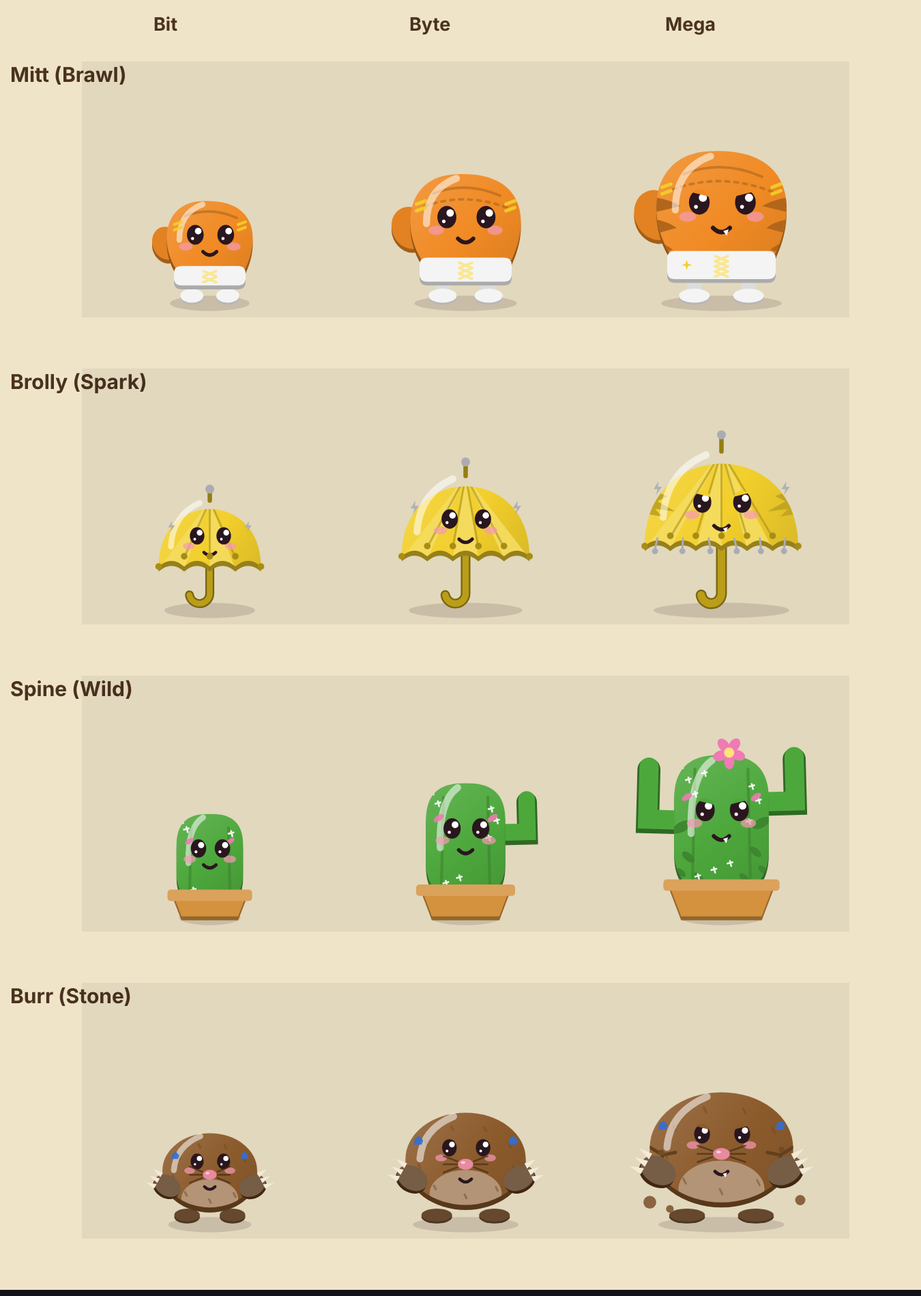
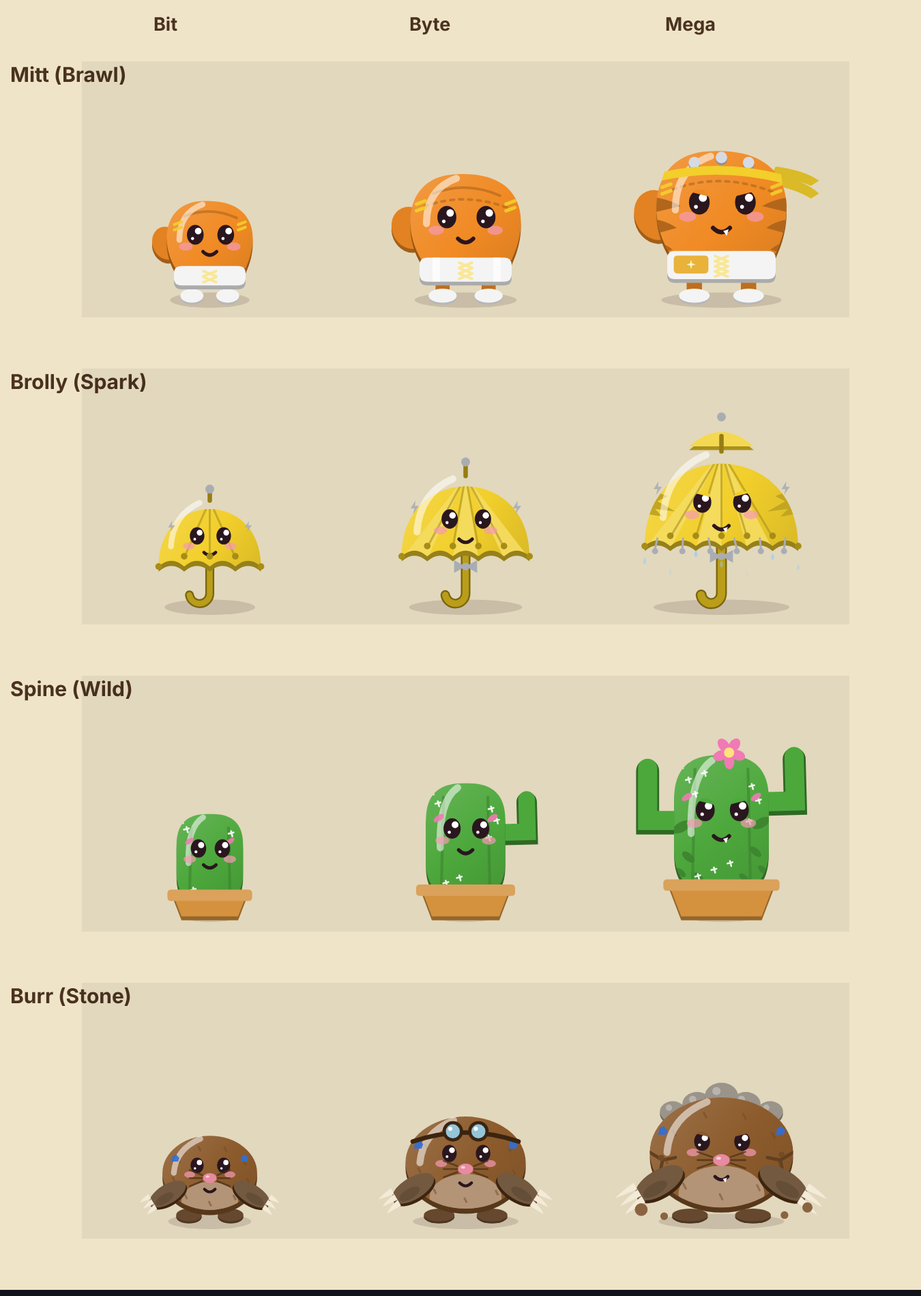
New families after Gid's notes: shadows sit where feet meet the ground for every family; Burr gets long spade paws, goggles at Byte and rock plates at Mega; Spine swings only the arm facing the opponent and its hit comes from that arm; Tock's hands turn from the middle of the dial; Brolly, Mitt, Kra
Claude-Session: https://claude.ai/code/session_01MQWzxVx8oFAYMeZzK28eRa

diff --git a/prototype/chibi.js b/prototype/chibi.js
@@ -245,7 +245,7 @@ const CHIBI = (() => {
     const fy = 183, fx = g.bw * 0.24;
     // shadow stays on the ground and shrinks as the body lifts
     c.fillStyle = rgba(INK, 0.14 + lift * 0.004);
-    c.beginPath(); c.ellipse(100 + (P.lean || 0) * 0.5, 189, g.bw * 0.44 * (1 + lift * 0.008), 6, 0, 0, 7); c.fill();
+    c.beginPath(); c.ellipse(100 + (P.lean || 0) * 0.5, 186.5, g.bw * 0.44 * (1 + lift * 0.008), 6, 0, 0, 7); c.fill();
     c.save();
     c.translate(P.lean || 0, lift);
     c.translate(100, 176); c.rotate(((P.tilt || 0) + (P.wobble ? Math.sin(t / 160) * 8 : 0)) * Math.PI / 180); c.scale(sx, sy); c.translate(-100, -176);
@@ -1183,12 +1183,12 @@ const CHIBI = (() => {
         c.fillStyle = rgb(lt(x.body, 0.82)); c.beginPath(); c.arc(g.cx, cy, r, 0, 7); c.fill(); c.strokeStyle = rgb(dk(x.body, 0.2)); c.lineWidth = 2.5; c.stroke();
         c.strokeStyle = rgb(dk(x.body, 0.45)); c.lineCap = 'round';
         for (let k = 0; k < 12; k++) { const a = k / 12 * Math.PI * 2, r0 = r * (k % 3 ? 0.9 : 0.82); c.lineWidth = k % 3 ? 1.5 : 2.5; c.beginPath(); c.moveTo(g.cx + Math.cos(a) * r0, cy + Math.sin(a) * r0); c.lineTo(g.cx + Math.cos(a) * r * 0.97, cy + Math.sin(a) * r * 0.97); c.stroke(); }
-        const hy = cy - r * 0.42, ha = x.t / 3000, ma = x.t / 250; c.strokeStyle = rgb(dk(x.body, 0.55)); c.lineWidth = 2.5;
-        c.beginPath(); c.moveTo(g.cx, hy); c.lineTo(g.cx + Math.sin(ha) * r * 0.22, hy - Math.cos(ha) * r * 0.22); c.stroke(); c.lineWidth = 1.6; c.beginPath(); c.moveTo(g.cx, hy); c.lineTo(g.cx + Math.sin(ma) * r * 0.32, hy - Math.cos(ma) * r * 0.32); c.stroke();
-        c.fillStyle = rgb(x.acc); c.beginPath(); c.arc(g.cx, hy, 2.4, 0, 7); c.fill(); },
+        const hy = cy, ha = x.t / 3000 - 0.6, ma = x.t / 250; c.strokeStyle = rgba(dk(x.body, 0.55), 0.55); c.lineCap = 'round'; c.lineWidth = 3;
+        c.beginPath(); c.moveTo(g.cx, hy); c.lineTo(g.cx + Math.sin(ha) * r * 0.5, hy - Math.cos(ha) * r * 0.5); c.stroke(); c.lineWidth = 2; c.beginPath(); c.moveTo(g.cx, hy); c.lineTo(g.cx + Math.sin(ma) * r * 0.78, hy - Math.cos(ma) * r * 0.78); c.stroke();
+        c.fillStyle = rgb(x.acc); c.beginPath(); c.arc(g.cx, hy, 2.6, 0, 7); c.fill(); },
       hl: g => [g.left + g.bw * 0.08, g.top + g.bh * 0.55, g.left + g.bw * 0.06, g.top + g.bh * 0.22, g.left + g.bw * 0.28, g.top + g.bh * 0.06],
       head: g => [g.cx, g.top - 8, g.bw * 0.5],
-      face: (c, g, x, look) => faceTwo(c, g, x, look, { ey: 0.54, ex: 0.15, my: 0.73, s: by(g.stage, 0.66, 0.76, 0.84), lidCol: lt(x.body, 0.82) })
+      face: (c, g, x, look) => faceTwo(c, g, x, look, { ey: 0.52, ex: 0.17, my: 0.74, s: by(g.stage, 0.66, 0.76, 0.84), lidCol: lt(x.body, 0.82) })
     },
     /* Mitt: a boxing glove. The face is on the back of the glove, the thumb bulges out one side, a laced cuff sits at the bottom, and it stands on two short legs */
     Mitt: {
@@ -1198,15 +1198,20 @@ const CHIBI = (() => {
         c.beginPath(); c.moveTo(L + g.bw * 0.12, B); c.bezierCurveTo(L - g.bw * 0.06, B - g.bh * 0.3, L - g.bw * 0.02, T, g.cx - g.bw * 0.06, T);
         c.bezierCurveTo(R + g.bw * 0.02, T - g.bh * 0.02, R + g.bw * 0.06, B - g.bh * 0.36, R - g.bw * 0.1, B); c.closePath(); },
       behind(c, g, x) { const ll = this.ll(g.stage), lw = by(g.stage, 9, 11, 12);
-        for (const sd of [-1, 1]) { const hx = g.cx + sd * g.bw * 0.2, lift = Math.max(0, sd * x.walk) * 5; limb(c, [hx, g.bot - 6, hx, g.bot + ll * 0.5, hx, 181 - lift], lw, dk(x.parts, 0.1), sd < 0 ? x.L.legL : x.L.legR, x.t);
+        for (const sd of [-1, 1]) { const hx = g.cx + sd * g.bw * 0.2, lift = Math.max(0, sd * x.walk) * 5; limb(c, [hx, g.bot - 6, hx, g.bot + ll * 0.5, hx, 181 - lift], lw, dk(x.body, 0.2), sd < 0 ? x.L.legL : x.L.legR, x.t);
           blob(c, hx, 182 - lift, by(g.stage, 9, 11, 12), 5.5, x.parts, sd < 0 ? x.L.legL : x.L.legR, x.t, 'foot'); x.feet.push([hx, 182 - lift, 8]); }
         // the thumb, tucked against the left side
+        if (g.stage === 'Mega') { const hy = g.top + g.bh * 0.12, sw = Math.sin(x.t / 200) * 3; c.fillStyle = rgb(dk(x.acc, 0.1));   // the headband's tails, trailing behind
+          for (const k of [0, 1]) { c.beginPath(); c.moveTo(g.left + g.bw * 0.9, hy + k * 6); c.quadraticCurveTo(g.left + g.bw * 1.12, hy + 4 + k * 8 + sw, g.left + g.bw * 1.22, hy + 12 + k * 10 + sw); c.lineTo(g.left + g.bw * 1.16, hy + 16 + k * 10 + sw); c.quadraticCurveTo(g.left + g.bw * 1.06, hy + 10 + k * 8, g.left + g.bw * 0.86, hy + 8 + k * 6); c.closePath(); c.fill(); } }
         const tx = g.left + g.bw * 0.02, ty = g.top + g.bh * 0.5; c.fillStyle = rgb(dk(x.body, 0.32)); c.beginPath(); c.ellipse(tx, ty + 3, g.bw * 0.16, g.bh * 0.2, -0.4, 0, 7); c.fill(); c.fillStyle = rgb(dk(x.body, 0.06)); c.beginPath(); c.ellipse(tx, ty, g.bw * 0.16, g.bh * 0.2, -0.4, 0, 7); c.fill(); },
       front(c, g, x) { const cb = g.bh * this.cuff, cy = g.bot - cb - 2, cw = g.bw * 0.8;
         roundBox(c, g.cx - cw / 2, cy + 3, cw, cb + 2, 6); c.fillStyle = rgb(dk(x.parts, 0.3)); c.fill();
         roundBox(c, g.cx - cw / 2, cy, cw, cb + 2, 6); c.fillStyle = rgb(x.parts); c.fill();
         c.strokeStyle = rgb(lt(x.acc, 0.5)); c.lineWidth = 2; for (let k = 0; k < by(g.stage, 2, 3, 4); k++) { const yy = cy + 4 + k * (cb - 4) / by(g.stage, 2, 3, 4); c.beginPath(); c.moveTo(g.cx - 5, yy); c.lineTo(g.cx + 5, yy + 4); c.moveTo(g.cx + 5, yy); c.lineTo(g.cx - 5, yy + 4); c.stroke(); }
-        if (g.stage === 'Mega') star(c, g.cx - cw * 0.32, cy + cb * 0.55, 0.45, rgb(x.acc)); },
+        if (g.stage === 'Byte') { c.fillStyle = 'rgba(255,255,255,.75)'; for (const fx of [-0.36, 0.3]) c.fillRect(g.cx + fx * cw, cy, cw * 0.08, cb + 2); }   // athletic tape
+        if (g.stage === 'Mega') { roundBox(c, g.cx - cw * 0.44, cy + cb * 0.18, cw * 0.32, cb * 0.7, 3); c.fillStyle = '#e9b23a'; c.fill(); star(c, g.cx - cw * 0.28, cy + cb * 0.53, 0.4, '#fff6c4');
+          for (let k = -1; k <= 1; k++) { const sx = g.cx + k * g.bw * 0.2, sy = g.top + 5 + Math.abs(k) * 4; c.fillStyle = '#8a8f99'; c.beginPath(); c.arc(sx, sy + 1.5, 4.5, 0, 7); c.fill(); c.fillStyle = '#d6dae2'; c.beginPath(); c.arc(sx, sy, 4.5, 0, 7); c.fill(); }   // knuckle studs
+          const hy = g.top + g.bh * 0.12; c.fillStyle = rgb(x.acc); c.beginPath(); c.moveTo(g.left + g.bw * 0.08, hy + 4); c.quadraticCurveTo(g.cx, hy - 6, g.left + g.bw * 0.94, hy + 6); c.lineTo(g.left + g.bw * 0.95, hy + 13); c.quadraticCurveTo(g.cx, hy + 1, g.left + g.bw * 0.06, hy + 11); c.closePath(); c.fill(); } },
       inside(c, g, x) { c.strokeStyle = rgba(dk(x.body, 0.3), 0.55); c.lineWidth = 2; c.beginPath(); c.moveTo(g.left + g.bw * 0.22, g.top + g.bh * 0.18); c.quadraticCurveTo(g.cx, g.top + g.bh * 0.06, g.left + g.bw * 0.8, g.top + g.bh * 0.2); c.stroke();
         if (g.stage !== 'Bit') { c.setLineDash([3, 4]); c.beginPath(); c.moveTo(g.left + g.bw * 0.14, g.top + g.bh * 0.3); c.quadraticCurveTo(g.cx, g.top + g.bh * 0.16, g.left + g.bw * 0.88, g.top + g.bh * 0.32); c.stroke(); c.setLineDash([]); } },
       hl: g => [g.left + g.bw * 0.16, g.top + g.bh * 0.46, g.left + g.bw * 0.16, g.top + g.bh * 0.14, g.left + g.bw * 0.42, g.top + g.bh * 0.04],
@@ -1224,13 +1229,18 @@ const CHIBI = (() => {
         c.strokeStyle = rgb(dk(x.parts, 0.35)); c.lineWidth = lw + 2.5; c.lineCap = 'round'; c.beginPath(); c.moveTo(hx, g.bot - 4); c.lineTo(hx, hb - 8); c.arc(hx - 8, hb - 8, 8, 0, Math.PI * 0.95); c.stroke();
         c.strokeStyle = rgb(x.parts); c.lineWidth = lw; c.beginPath(); c.moveTo(hx, g.bot - 4); c.lineTo(hx, hb - 8); c.arc(hx - 8, hb - 8, 8, 0, Math.PI * 0.95); c.stroke();
         x.feet.push([hx - 4, hb, 6]);
+        if (g.stage !== 'Bit') { const by0 = g.bot + 8; c.fillStyle = rgb(x.acc); for (const sd of [-1, 1]) { c.beginPath(); c.moveTo(hx, by0); c.lineTo(hx + sd * 9, by0 - 5); c.lineTo(hx + sd * 9, by0 + 5); c.closePath(); c.fill(); } c.beginPath(); c.arc(hx, by0, 3, 0, 7); c.fill(); }   // a bow tied on the handle
+        if (g.stage === 'Mega') { const tw = g.bw * 0.42, ty = g.top - g.bh * 0.12 - 4, th = 16;   // a second, smaller canopy on top
+          c.fillStyle = rgb(dk(x.body, 0.3)); c.beginPath(); c.moveTo(g.cx - tw / 2, ty + 3); c.quadraticCurveTo(g.cx, ty - th * 1.4 + 3, g.cx + tw / 2, ty + 3); c.closePath(); c.fill();
+          c.fillStyle = rgb(lt(x.body, 0.18)); c.beginPath(); c.moveTo(g.cx - tw / 2, ty); c.quadraticCurveTo(g.cx, ty - th * 1.4, g.cx + tw / 2, ty); c.closePath(); c.fill(); }
         c.strokeStyle = rgb(dk(x.parts, 0.2)); c.lineWidth = 3.5; c.beginPath(); c.moveTo(g.cx, g.top - g.bh * 0.12); c.lineTo(g.cx, g.top - g.bh * 0.12 - by(g.stage, 8, 10, 12)); c.stroke();
-        c.fillStyle = rgb(x.acc); c.beginPath(); c.arc(g.cx, g.top - g.bh * 0.12 - by(g.stage, 9, 11, 13), 3.5, 0, 7); c.fill(); },
+        c.fillStyle = rgb(x.acc); c.beginPath(); c.arc(g.cx, g.top - g.bh * 0.12 - by(g.stage, 9, 11, 13) - (g.stage === 'Mega' ? 14 : 0), 3.5, 0, 7); c.fill(); },
       inside(c, g, x) { const n = by(g.stage, 4, 5, 6), w = g.bw / n;
-        for (let i = 0; i < n; i += 2) { c.fillStyle = rgba(lt(x.body, 0.25), 0.9); c.beginPath(); c.moveTo(g.cx, g.top - g.bh * 0.12); c.lineTo(g.left + i * w, g.bot + 2); c.lineTo(g.left + (i + 1) * w, g.bot + 2); c.closePath(); c.fill(); }
+        if (g.stage !== 'Bit') for (let i = 0; i < n; i += 2) { c.fillStyle = rgba(lt(x.body, 0.25), 0.9); c.beginPath(); c.moveTo(g.cx, g.top - g.bh * 0.12); c.lineTo(g.left + i * w, g.bot + 2); c.lineTo(g.left + (i + 1) * w, g.bot + 2); c.closePath(); c.fill(); }
         c.strokeStyle = rgba(dk(x.body, 0.3), 0.6); c.lineWidth = 1.6; for (let i = 1; i < n; i++) { c.beginPath(); c.moveTo(g.cx, g.top - g.bh * 0.12); c.lineTo(g.left + i * w, g.bot - 7); c.stroke(); } },
       front(c, g, x) { const n = by(g.stage, 4, 5, 6), w = g.bw / n;
         for (let i = 0; i <= n; i++) { c.fillStyle = rgb(dk(x.parts, 0.1)); c.beginPath(); c.arc(g.left + i * w, g.bot - (i === 0 || i === n ? 0 : 8), 2.6, 0, 7); c.fill(); }
+        if (g.stage === 'Mega') for (let i = 0; i <= n; i++) { const ph = (x.t / 1100 + i * 0.37) % 1; c.fillStyle = `rgba(150,205,250,${0.9 * (1 - ph)})`; drop(c, g.left + i * w, g.bot + 4 + ph * 22, 0.5); c.fill(); }   // rain running off the rim
         if (g.stage === 'Mega') for (let i = 0; i < n; i++) { const tx = g.left + (i + 0.5) * w, sw = Math.sin(x.t / 300 + i) * 2; c.strokeStyle = rgb(x.acc); c.lineWidth = 1.6; c.beginPath(); c.moveTo(tx, g.bot - 6); c.lineTo(tx + sw, g.bot + 2); c.stroke();
             c.fillStyle = rgb(x.acc); c.beginPath(); c.arc(tx + sw, g.bot + 4, 2.4, 0, 7); c.fill(); } },
       hl: g => [g.left + g.bw * 0.12, g.top + g.bh * 0.66, g.left + g.bw * 0.14, g.top + g.bh * 0.12, g.left + g.bw * 0.4, g.top - g.bh * 0.08],
@@ -1242,11 +1252,15 @@ const CHIBI = (() => {
       dims: { Bit: [52, 64], Byte: [62, 84], Mega: [74, 102] }, ph: st => by(st, 18, 22, 26), slots: { feet: false },
       bottom(st) { return 184 - this.ph(st) + 6; }, height(st) { return this.dims[st][1] + this.ph(st) - 2 + (st === 'Mega' ? 12 : 0); },
       path(c, g) { roundBox(c, g.left, g.top, g.bw, g.bh + 6, g.bw * 0.46); },
-      behind(c, g, x) { if (g.stage === 'Bit') return; const aw = by(g.stage, 0, 13, 15), sw = Math.sin(x.t / 500) * 0.06;
+      behind(c, g, x) { if (g.stage === 'Bit') return; const aw = by(g.stage, 0, 13, 15), sw = Math.sin(x.t / 500) * 0.06, A = x.P.arm || [[12, 8, 16, 22], [12, 8, 16, 22]];
+        const reach = Math.max(-0.3, Math.min(1, (A[1][2] - 16) / 30)), lift = Math.max(0, Math.min(1, (-A[1][3] - 22) / 30));   // how far the right arm, the one facing the opponent, is thrown out or up
         for (const [sd, hy, up] of g.stage === 'Mega' ? [[-1, 0.5, 0.4], [1, 0.36, 0.34]] : [[1, 0.46, 0.3]]) { const sx = g.cx + sd * g.bw * 0.3, sy = g.top + g.bh * hy, ex = g.cx + sd * g.bw * 0.78, ey = sy - g.bh * up;
-          c.save(); c.translate(sx, sy); c.rotate(sd * sw); c.translate(-sx, -sy);
+          const rot = sd > 0 ? 1.15 * Math.max(0, reach) - 0.3 * lift : -sw;   // a punch swings the arm forward and down onto the target
+          c.save(); c.translate(sx, sy); c.rotate(sd * (sw + rot)); c.translate(-sx, -sy);
           c.strokeStyle = rgb(dk(x.body, 0.38)); c.lineWidth = aw + 3; c.lineCap = 'round'; c.beginPath(); c.moveTo(sx, sy + 2); c.lineTo(ex, sy + 2); c.lineTo(ex, ey + 2); c.stroke();
-          c.strokeStyle = rgb(x.body); c.lineWidth = aw; c.beginPath(); c.moveTo(sx, sy); c.lineTo(ex, sy); c.lineTo(ex, ey); c.stroke(); c.restore(); } },
+          c.strokeStyle = rgb(x.body); c.lineWidth = aw; c.beginPath(); c.moveTo(sx, sy); c.lineTo(ex, sy); c.lineTo(ex, ey); c.stroke();
+          if (sd > 0 && CAP) (CAP.hands = CAP.hands || []).push(capPt(c, ex, ey));
+          c.restore(); } },
       inside(c, g, x) { c.strokeStyle = rgba(dk(x.body, 0.22), 0.6); c.lineWidth = 2.2; for (const k of [-0.28, 0.28]) { c.beginPath(); c.moveTo(g.cx + k * g.bw, g.top + 10); c.lineTo(g.cx + k * g.bw * 1.1, g.bot + 6); c.stroke(); }
         c.strokeStyle = 'rgba(255,255,255,.9)'; c.lineWidth = 1.4; c.lineCap = 'round';
         for (let k = 0; k < by(g.stage, 8, 12, 16); k++) { const px = g.left + g.bw * (0.08 + ((k * 0.37) % 0.84)), py = g.top + g.bh * (0.08 + ((k * 0.53) % 0.9)); if (Math.abs(px - g.cx) < g.bw * 0.24 && py > g.top + g.bh * 0.3 && py < g.top + g.bh * 0.8) continue;
@@ -1265,20 +1279,27 @@ const CHIBI = (() => {
     },
     /* Burr: a mole. A soft oval with a pink nose, small squinting eyes, whiskers, big spade paws with claws in front, and clods of dirt at Mega */
     Burr: {
-      dims: { Bit: [74, 58], Byte: [94, 72], Mega: [112, 86] }, ll: st => by(st, 6, 8, 10),
-      bottom(st) { return 182 - this.ll(st); }, height(st) { return this.dims[st][1] + this.ll(st) + 6; },
+      dims: { Bit: [74, 58], Byte: [94, 72], Mega: [112, 86] }, ll: st => by(st, 4, 5, 6),
+      bottom(st) { return 182 - this.ll(st); }, height(st) { return this.dims[st][1] + this.ll(st) + 6 + (st === 'Mega' ? 10 : 0); },
       path(c, g) { c.beginPath(); c.ellipse(g.cx, g.top + g.bh / 2, g.bw / 2, g.bh / 2, 0, 0, 7); },
-      behind(c, g, x) { for (const sd of [-1, 1]) { const fx = g.cx + sd * g.bw * 0.24, lift = Math.max(0, sd * x.walk) * 4; blob(c, fx, 182 - lift, by(g.stage, 10, 12, 14), 5, lt(x.parts, 0.1), sd < 0 ? x.L.legL : x.L.legR, x.t, 'foot'); x.feet.push([fx, 182 - lift, 9]); } },
+      behind(c, g, x) { if (g.stage === 'Mega') for (let k = -2; k <= 2; k++) { const px = g.cx + k * g.bw * 0.17, py = g.top - 1 + Math.abs(k) * 6, r = 13 - Math.abs(k) * 1.5;   // a ridge of rock plates along its back
+          c.fillStyle = '#6f6a62'; c.beginPath(); c.ellipse(px, py + 2, r, r * 0.8, 0, 0, 7); c.fill(); c.fillStyle = '#9a948a'; c.beginPath(); c.ellipse(px, py, r, r * 0.8, 0, 0, 7); c.fill(); c.fillStyle = 'rgba(255,255,255,.3)'; c.beginPath(); c.arc(px - r * 0.3, py - r * 0.3, r * 0.25, 0, 7); c.fill(); }
+        for (const sd of [-1, 1]) { const fx = g.cx + sd * g.bw * 0.22, lift = Math.max(0, sd * x.walk) * 4; blob(c, fx, 182 - lift, by(g.stage, 10, 12, 14), 5, lt(x.parts, 0.1), sd < 0 ? x.L.legL : x.L.legR, x.t, 'foot'); x.feet.push([fx, 182 - lift, 9]); } },
       inside(c, g, x) { c.fillStyle = rgb(lt(x.body, 0.35)); c.beginPath(); c.ellipse(g.cx, g.bot - g.bh * 0.12, g.bw * 0.3, g.bh * 0.26, 0, 0, 7); c.fill();
         c.strokeStyle = rgba(dk(x.body, 0.2), 0.5); c.lineWidth = 1.6; for (let k = 0; k < 9; k++) { const a = k * 0.7 + 0.2, px = g.cx + Math.cos(a) * g.bw * 0.4, py = g.top + g.bh * 0.5 + Math.sin(a) * g.bh * 0.38; c.beginPath(); c.moveTo(px, py); c.lineTo(px + 2, py + 4); c.stroke(); } },
-      front(c, g, x) { const sz = by(g.stage, 1, 1.15, 1.32), dig = x.walk ? Math.sin(x.t / 120) * 0.2 : Math.sin(x.t / 700) * 0.06;
-        for (const sd of [-1, 1]) { c.save(); c.translate(g.cx + sd * g.bw * 0.4, g.top + g.bh * 0.74); c.scale(sd * sz, sz); c.rotate(-0.5 + dig * sd);
-          c.fillStyle = rgb(dk(x.parts, 0.25)); c.beginPath(); c.ellipse(4, 2, 11, 8, 0, 0, 7); c.fill(); c.fillStyle = rgb(lt(x.parts, 0.2)); c.beginPath(); c.ellipse(4, 0, 11, 8, 0, 0, 7); c.fill();
-          c.fillStyle = '#f4ead8'; for (let k = -1; k <= 1; k++) { c.beginPath(); c.moveTo(12, k * 5 - 2); c.lineTo(20, k * 6); c.lineTo(12, k * 5 + 2); c.closePath(); c.fill(); } c.restore(); }
-        if (g.stage === 'Mega') { c.fillStyle = '#8a6440'; for (const [px, py, r] of [[-0.5, 1, 5], [0.55, 0.98, 4], [-0.36, 1.06, 3]]) { c.beginPath(); c.arc(g.cx + px * g.bw, g.top + g.bh * py, r, 0, 7); c.fill(); } } },
+      /* long spade paws reaching forward and down, three long claws each; they dig when it walks */
+      front(c, g, x) { const sz = by(g.stage, 1, 1.15, 1.32), dig = x.walk ? Math.sin(x.t / 120) * 0.25 : Math.sin(x.t / 700) * 0.06, cl = by(g.stage, 9, 11, 14);
+        for (const sd of [-1, 1]) { c.save(); c.translate(g.cx + sd * g.bw * 0.36, g.top + g.bh * 0.7); c.scale(sd * sz, sz); c.rotate(0.55 + dig * sd);
+          c.fillStyle = rgb(dk(x.parts, 0.28)); c.beginPath(); c.ellipse(8, 3, 16, 7.5, 0, 0, 7); c.fill(); c.fillStyle = rgb(lt(x.parts, 0.18)); c.beginPath(); c.ellipse(8, 1, 16, 7.5, 0, 0, 7); c.fill();
+          c.fillStyle = 'rgba(0,0,0,.12)'; c.beginPath(); c.ellipse(12, 3, 8, 3.5, 0, 0, 7); c.fill();
+          c.fillStyle = '#f4ead8'; for (let k = -1; k <= 1; k++) { c.beginPath(); c.moveTo(21, k * 4.6 - 2.2); c.quadraticCurveTo(21 + cl * 0.7, k * 5 - 1, 21 + cl, k * 5.6 + 1); c.lineTo(21, k * 4.6 + 2.2); c.closePath(); c.fill(); } c.restore(); }
+        if (g.stage === 'Byte') { const gy = g.top + g.bh * 0.16;   // digging goggles pushed up on its forehead
+          c.strokeStyle = rgb(dk(x.parts, 0.3)); c.lineWidth = 3.5; c.beginPath(); c.moveTo(g.cx - g.bw * 0.44, gy + 8); c.quadraticCurveTo(g.cx, gy - 6, g.cx + g.bw * 0.44, gy + 8); c.stroke();
+          for (const sd of [-1, 1]) { c.fillStyle = rgb(dk(x.parts, 0.3)); c.beginPath(); c.arc(g.cx + sd * 10, gy, 8, 0, 7); c.fill(); c.fillStyle = 'rgba(160,215,240,.9)'; c.beginPath(); c.arc(g.cx + sd * 10, gy, 5.5, 0, 7); c.fill(); c.fillStyle = '#fff'; c.beginPath(); c.arc(g.cx + sd * 10 - 2, gy - 2, 1.6, 0, 7); c.fill(); } }
+        if (g.stage === 'Mega') { c.fillStyle = '#8a6440'; for (const [px, py, r] of [[-0.56, 1.02, 5], [0.6, 1, 4], [-0.4, 1.08, 3], [0.44, 1.07, 3]]) { c.beginPath(); c.arc(g.cx + px * g.bw, g.top + g.bh * py, r, 0, 7); c.fill(); } } },
       hl: g => [g.left + g.bw * 0.12, g.top + g.bh * 0.5, g.left + g.bw * 0.14, g.top + g.bh * 0.18, g.left + g.bw * 0.4, g.top + g.bh * 0.04],
       head: g => [g.cx, g.top + 2, g.bw * 0.46],
-      face(c, g, x, look) { const fi = faceTwo(c, g, x, look, { ey: 0.38, ex: 0.14, my: 0.72, s: by(g.stage, 0.6, 0.66, 0.72) }), ny = g.top + g.bh * 0.56, s = fi.s;
+      face(c, g, x, look) { const fi = faceTwo(c, g, x, look, { ey: 0.4, ex: 0.14, my: 0.72, s: by(g.stage, 0.6, 0.66, 0.72) }), ny = g.top + g.bh * 0.57, s = fi.s;
         c.strokeStyle = rgba(dk(x.body, 0.5), 0.7); c.lineWidth = 1.4; for (const sd of [-1, 1]) for (const k of [-4, 0, 4]) { c.beginPath(); c.moveTo(g.cx + sd * 10 * s, ny + k * 0.6); c.lineTo(g.cx + sd * 26 * s, ny + k * 1.6); c.stroke(); }
         c.fillStyle = '#e88aa0'; c.beginPath(); c.ellipse(g.cx, ny, 9 * s, 6.5 * s, 0, 0, 7); c.fill(); c.fillStyle = 'rgba(255,255,255,.6)'; c.beginPath(); c.ellipse(g.cx - 3 * s, ny - 2 * s, 2.5 * s, 1.6 * s, 0, 0, 7); c.fill();
         return fi; }
@@ -1291,15 +1312,20 @@ const CHIBI = (() => {
       path(c, g) { const R = g.left + g.bw; c.beginPath(); c.moveTo(g.left, g.bot); c.bezierCurveTo(g.left - 4, g.top + g.bh * 0.4, g.cx - g.bw * 0.2, g.top, g.cx, g.top - 6);
         c.bezierCurveTo(g.cx + g.bw * 0.2, g.top, R + 4, g.top + g.bh * 0.4, R, g.bot); c.quadraticCurveTo(g.cx, g.bot + 8, g.left, g.bot); c.closePath(); },
       behind(c, g, x) { const tl = this.tl(g.stage), lw = by(g.stage, 9, 11, 13);
+        if (g.stage === 'Mega') for (const sd of [-1, 1]) { const sw = Math.sin(x.t / 470 + sd * 2) * 6, q = [g.cx + sd * g.bw * 0.2, g.bot - 10, g.cx + sd * g.bw * 1.05, g.top + g.bh * 0.8 + sw, g.cx + sd * g.bw * 1.0, g.top + g.bh * 0.3 + sw];   // a second, lower pair of arms
+          limb(c, q, lw * 0.8, dk(x.parts, 0.15), sd < 0 ? x.L.armL : x.L.armR, x.t); c.fillStyle = rgb(dk(x.parts, 0.15)); c.beginPath(); c.arc(q[4] - sd * 4, q[5], lw * 0.55, 0, 7); c.fill(); }
         for (const sd of [-1, 1]) { const sw = Math.sin(x.t / 520 + sd) * 8, q = [g.cx + sd * g.bw * 0.3, g.bot - 6, g.cx + sd * g.bw * 0.95, g.top + g.bh * 0.5 + sw, g.cx + sd * g.bw * 0.7, g.top - g.bh * by(g.stage, 0.05, 0.15, 0.25) + sw];
           limb(c, q, lw, x.parts, sd < 0 ? x.L.armL : x.L.armR, x.t); c.fillStyle = rgb(x.parts); c.beginPath(); c.arc(q[4] - sd * 6, q[5], lw * 0.7, 0, 7); c.fill();
-          c.fillStyle = rgb(lt(x.parts, 0.4)); for (let k = 1; k <= 3; k++) { const p = qpt(q, k / 4); c.beginPath(); c.arc(p[0] - sd * 2, p[1], 2, 0, 7); c.fill(); } }
-        for (const sd of [-1, 1]) { c.fillStyle = rgb(dk(x.body, 0.15)); c.beginPath(); c.moveTo(g.cx + sd * g.bw * 0.22, g.top + g.bh * 0.1); c.quadraticCurveTo(g.cx + sd * g.bw * 0.62, g.top + g.bh * 0.02, g.cx + sd * g.bw * 0.48, g.top + g.bh * 0.36); c.closePath(); c.fill(); }
+          if (g.stage !== 'Bit') { c.fillStyle = rgb(lt(x.parts, 0.4)); for (let k = 1; k <= 3; k++) { const p = qpt(q, k / 4); c.beginPath(); c.arc(p[0] - sd * 2, p[1], 2, 0, 7); c.fill(); } } }
+        if (g.stage !== 'Bit') for (const sd of [-1, 1]) { c.fillStyle = rgb(dk(x.body, 0.15)); c.beginPath(); c.moveTo(g.cx + sd * g.bw * 0.22, g.top + g.bh * 0.1); c.quadraticCurveTo(g.cx + sd * g.bw * 0.62, g.top + g.bh * 0.02, g.cx + sd * g.bw * 0.48, g.top + g.bh * 0.36); c.closePath(); c.fill(); }
         const n = by(g.stage, 4, 5, 6), span = g.bw * 0.86;
         for (let i = 0; i < n; i++) { const f = i / (n - 1), tx = g.cx - span / 2 + f * span, out = (f - 0.5) * 2, sw = Math.sin(x.t / 260 + i * 1.3) * 4 + x.walk * 3, q = [tx, g.bot - 6, tx + out * 6 + sw * 0.5, g.bot + tl * 0.5, tx + out * 14 + sw, 182];
           limb(c, q, by(g.stage, 7, 8, 9), x.parts, f < 0.5 ? x.L.legL : x.L.legR, x.t); c.fillStyle = rgb(lt(x.parts, 0.35)); c.beginPath(); c.arc(q[4] + out * 3, 181, 3, 0, 7); c.fill(); } },
-      inside(c, g, x) { c.fillStyle = rgba(lt(x.body, 0.3), 0.7); for (const [fx, fy, r] of [[0.28, 0.3, 4], [0.7, 0.26, 3], [0.22, 0.6, 3], [0.8, 0.56, 4]]) { c.beginPath(); c.arc(g.left + g.bw * fx, g.top + g.bh * fy, r, 0, 7); c.fill(); } },
-      front(c, g, x) { if (g.stage === 'Mega') for (let k = -2; k <= 2; k++) { c.fillStyle = rgb(k % 2 ? x.acc : lt(x.acc, 0.3)); c.beginPath(); c.moveTo(g.cx + k * 8 - 4, g.top + 2 + Math.abs(k) * 4); c.lineTo(g.cx + k * 9, g.top - 14 + Math.abs(k) * 5); c.lineTo(g.cx + k * 8 + 4, g.top + 2 + Math.abs(k) * 4); c.closePath(); c.fill(); } },
+      inside(c, g, x) { if (g.stage === 'Byte') { c.fillStyle = rgba(lt(x.body, 0.3), 0.7); for (const [fx, fy, r] of [[0.28, 0.3, 4], [0.7, 0.26, 3], [0.22, 0.6, 3], [0.8, 0.56, 4]]) { c.beginPath(); c.arc(g.left + g.bw * fx, g.top + g.bh * fy, r, 0, 7); c.fill(); } }
+        if (g.stage === 'Mega') { const gl = 0.55 + Math.sin(x.t / 300) * 0.35; c.save(); c.shadowColor = rgba(lt(x.acc, 0.3), 1); c.shadowBlur = 8;   // a ring of lights that pulse down its mantle
+          for (let k = 0; k < 7; k++) { const f = k / 6, px = g.left + g.bw * (0.12 + f * 0.76), py = g.top + g.bh * (0.86 - Math.sin(f * Math.PI) * 0.08); c.fillStyle = rgba(lt(x.acc, 0.5), gl * (0.6 + 0.4 * Math.sin(x.t / 200 - k))); c.beginPath(); c.arc(px, py, 3, 0, 7); c.fill(); } c.restore(); } },
+      front(c, g, x) { if (g.stage === 'Mega') for (const sd of [-1, 1]) { c.fillStyle = rgb(dk(x.acc, 0.1)); c.beginPath(); c.moveTo(g.cx + sd * 6, g.top + 4);   // two curled horns
+          c.quadraticCurveTo(g.cx + sd * 26, g.top - 6, g.cx + sd * 22, g.top - 24); c.quadraticCurveTo(g.cx + sd * 16, g.top - 8, g.cx + sd * 2, g.top + 8); c.closePath(); c.fill(); } },
       hl: g => [g.left + g.bw * 0.14, g.top + g.bh * 0.66, g.left + g.bw * 0.18, g.top + g.bh * 0.24, g.cx - g.bw * 0.08, g.top + g.bh * 0.02],
       head: g => [g.cx, g.top - 4, g.bw * 0.42],
       face: (c, g, x, look) => faceTwo(c, g, x, look, { ey: 0.56, ex: 0.18, my: 0.78, fang: true, s: by(g.stage, 0.74, 0.84, 0.92) })
@@ -1356,12 +1382,22 @@ const CHIBI = (() => {
         for (let i = 0; i <= 72; i++) { const a = i / 72 * Math.PI * 2, bulge = 1 + 0.045 * Math.abs(Math.cos(a * n / 2)), px = g.cx + Math.cos(a) * g.bw / 2 * bulge, py = cy + Math.sin(a) * g.bh / 2 * (1 - 0.06 * Math.abs(Math.sin(a)) * (Math.sin(a) < 0 ? 1 : 0));
           if (!i) c.moveTo(px, py); else c.lineTo(px, py); } c.closePath(); },
       arms: 'stub', armW: st => by(st, 0, 5, 6), handR: st => by(st, 0, 4.5, 5), shoulderY: 0.6, armK: 0.8,
-      behind(c, g, x) { c.strokeStyle = '#4f7a2c'; c.lineWidth = by(g.stage, 6, 7, 8); c.lineCap = 'round'; c.beginPath(); c.moveTo(g.cx, g.top + 6); c.quadraticCurveTo(g.cx - 2, g.top - 10, g.cx + 8, g.top - by(g.stage, 14, 18, 22)); c.stroke();
-        c.fillStyle = '#6fa63a'; c.beginPath(); c.ellipse(g.cx - 12, g.top - 4, 10, 5, -0.5, 0, 7); c.fill(); c.strokeStyle = '#4f7a2c'; c.lineWidth = 2; c.beginPath(); c.moveTo(g.cx + 8, g.top - 12); c.bezierCurveTo(g.cx + 22, g.top - 20, g.cx + 24, g.top - 4, g.cx + 16, g.top - 6); c.stroke();
+      behind(c, g, x) { if (g.stage === 'Byte') for (const a of [-0.9, 0, 0.9]) { c.save(); c.translate(g.cx, g.top + 4); c.rotate(a); c.fillStyle = '#5d9134'; c.beginPath(); c.ellipse(0, -10, 6, 13, 0, 0, 7); c.fill(); c.fillStyle = '#7cb246'; c.beginPath(); c.ellipse(0, -11, 4.5, 11, 0, 0, 7); c.fill(); c.restore(); }   // a collar of leaves
+        if (g.stage !== 'Mega') { c.strokeStyle = '#4f7a2c'; c.lineWidth = by(g.stage, 6, 7, 8); c.lineCap = 'round'; c.beginPath(); c.moveTo(g.cx, g.top + 6); c.quadraticCurveTo(g.cx - 2, g.top - 10, g.cx + 8, g.top - by(g.stage, 14, 18, 22)); c.stroke();
+        c.fillStyle = '#6fa63a'; c.beginPath(); c.ellipse(g.cx - 12, g.top - 4, 10, 5, -0.5, 0, 7); c.fill(); c.strokeStyle = '#4f7a2c'; c.lineWidth = 2; c.beginPath(); c.moveTo(g.cx + 8, g.top - 12); c.bezierCurveTo(g.cx + 22, g.top - 20, g.cx + 24, g.top - 4, g.cx + 16, g.top - 6); c.stroke(); }
         for (const sd of [-1, 1]) { const fx = g.cx + sd * g.bw * 0.22, lift = Math.max(0, sd * x.walk) * 4; blob(c, fx, 182 - lift, by(g.stage, 8, 9, 10), 5, [79, 122, 44], sd < 0 ? x.L.legL : x.L.legR, x.t, 'foot'); x.feet.push([fx, 182 - lift, 7]); } },
       inside(c, g, x) { const n = by(g.stage, 5, 5, 7); c.strokeStyle = rgba(dk(x.body, 0.3), 0.55); c.lineWidth = 2.2;
         for (let k = 1; k < n; k++) { const f = k / n, px = g.left + g.bw * f; c.beginPath(); c.moveTo(g.cx + (px - g.cx) * 0.4, g.top + 4); c.quadraticCurveTo(px, g.top + g.bh / 2, g.cx + (px - g.cx) * 0.4, g.bot - 4); c.stroke(); } },
-      front(c, g, x) { if (g.stage === 'Mega') for (const sd of [-1, 1]) { const fx = g.cx + sd * g.bw * 0.62, fy = g.top + g.bh * 0.2 + Math.sin(x.t / 300 + sd) * 5, fl = 1 + Math.sin(x.t / 80 + sd) * 0.1;
+      front(c, g, x) {
+        if (g.stage === 'Byte') { c.strokeStyle = '#4f7a2c'; c.lineWidth = 3; c.lineCap = 'round'; c.beginPath(); c.moveTo(g.left + g.bw * 0.08, g.top + g.bh * 0.3);   // a vine curling across the top
+          c.bezierCurveTo(g.left + g.bw * 0.2, g.top - 2, g.cx - 10, g.top + g.bh * 0.12, g.cx - 4, g.top + 6); c.stroke(); c.fillStyle = '#7cb246'; c.beginPath(); c.ellipse(g.left + g.bw * 0.2, g.top + g.bh * 0.12, 5, 3, -0.6, 0, 7); c.fill(); }
+        if (g.stage === 'Mega') { const bob = Math.sin(x.t / 350) * 3, ly = g.top - 16 + bob, lw = g.bw * 0.36, fl = 1 + Math.sin(x.t / 70) * 0.12;   // the lid floats off and a flame burns out of the top
+          c.save(); c.translate(g.cx, g.top + 4); c.scale(1, fl); c.fillStyle = 'rgba(255,150,40,.95)'; c.beginPath(); c.moveTo(0, -30); c.quadraticCurveTo(16, -10, 11, 2); c.quadraticCurveTo(0, 8, -11, 2); c.quadraticCurveTo(-16, -10, 0, -30); c.fill();
+          c.fillStyle = '#ffe28a'; c.beginPath(); c.moveTo(0, -16); c.quadraticCurveTo(7, -4, 4, 2); c.quadraticCurveTo(0, 5, -4, 2); c.quadraticCurveTo(-7, -4, 0, -16); c.fill(); c.restore();
+          c.fillStyle = rgb(dk(x.body, 0.3)); c.beginPath(); c.ellipse(g.cx, ly + 3, lw / 2, 7, 0, 0, 7); c.fill(); c.fillStyle = rgb(x.body); c.beginPath(); c.ellipse(g.cx, ly, lw / 2, 7, 0, 0, 7); c.fill();
+          c.strokeStyle = '#4f7a2c'; c.lineWidth = 6; c.lineCap = 'round'; c.beginPath(); c.moveTo(g.cx, ly - 4); c.quadraticCurveTo(g.cx - 2, ly - 14, g.cx + 6, ly - 18); c.stroke();
+          c.strokeStyle = 'rgba(58,26,10,.7)'; c.lineWidth = 2.5; c.beginPath(); for (let k = 0; k <= 8; k++) { const px = g.cx - lw / 2 + k * lw / 8, py = g.top + 6 + (k % 2 ? 4 : 0); k ? c.lineTo(px, py) : c.moveTo(px, py); } c.stroke(); }
+        if (g.stage === 'Mega') for (const sd of [-1, 1]) { const fx = g.cx + sd * g.bw * 0.62, fy = g.top + g.bh * 0.2 + Math.sin(x.t / 300 + sd) * 5, fl = 1 + Math.sin(x.t / 80 + sd) * 0.1;
           c.save(); c.translate(fx, fy); c.scale(1, fl); c.fillStyle = 'rgba(255,170,60,.92)'; c.beginPath(); c.moveTo(0, -12); c.quadraticCurveTo(7, -2, 5, 4); c.arc(0, 4, 5, 0, Math.PI); c.quadraticCurveTo(-7, -2, 0, -12); c.fill(); c.fillStyle = '#fff6c4'; c.beginPath(); c.arc(0, 3, 2.5, 0, 7); c.fill(); c.restore(); } },
       hl: g => [g.left + g.bw * 0.12, g.top + g.bh * 0.5, g.left + g.bw * 0.14, g.top + g.bh * 0.18, g.left + g.bw * 0.36, g.top + g.bh * 0.06],
       head: g => [g.cx, g.top - 4, g.bw * 0.46],
@@ -1609,7 +1645,7 @@ const CHIBI = (() => {
     const bot = F.bottom(stage), g = { cx: 100, bw, bh, bot, top: bot - bh, left: 100 - bw / 2, stage };
     const x = { P, t, walk, body, parts, acc, L, stage, open, m, feet: [], back: !!m.back }, W = m.worn || {}, bootsOn = W.feet === 'Boots' && !(F.slots && F.slots.feet === false);
     c.fillStyle = rgba(INK, F.float ? 0.08 : 0.14);
-    c.beginPath(); c.ellipse(100 + (P.lean || 0) * 0.5, 189, Math.max(bw * 0.44, 24) * (F.float ? 0.75 : 1) * (1 + lift * 0.008), 6, 0, 0, 7); c.fill();
+    c.beginPath(); c.ellipse(100 + (P.lean || 0) * 0.5, 186.5, Math.max(bw * 0.44, 24) * (F.float ? 0.75 : 1) * (1 + lift * 0.008), 6, 0, 0, 7); c.fill();
     c.save();
     c.translate(P.lean || 0, lift);
     c.translate(100, 176); c.rotate(((P.tilt || 0) + (P.wobble ? Math.sin(t / 160) * 8 : 0)) * Math.PI / 180); c.scale(P.sx || 1, P.sy || 1); c.translate(-100, -176);
